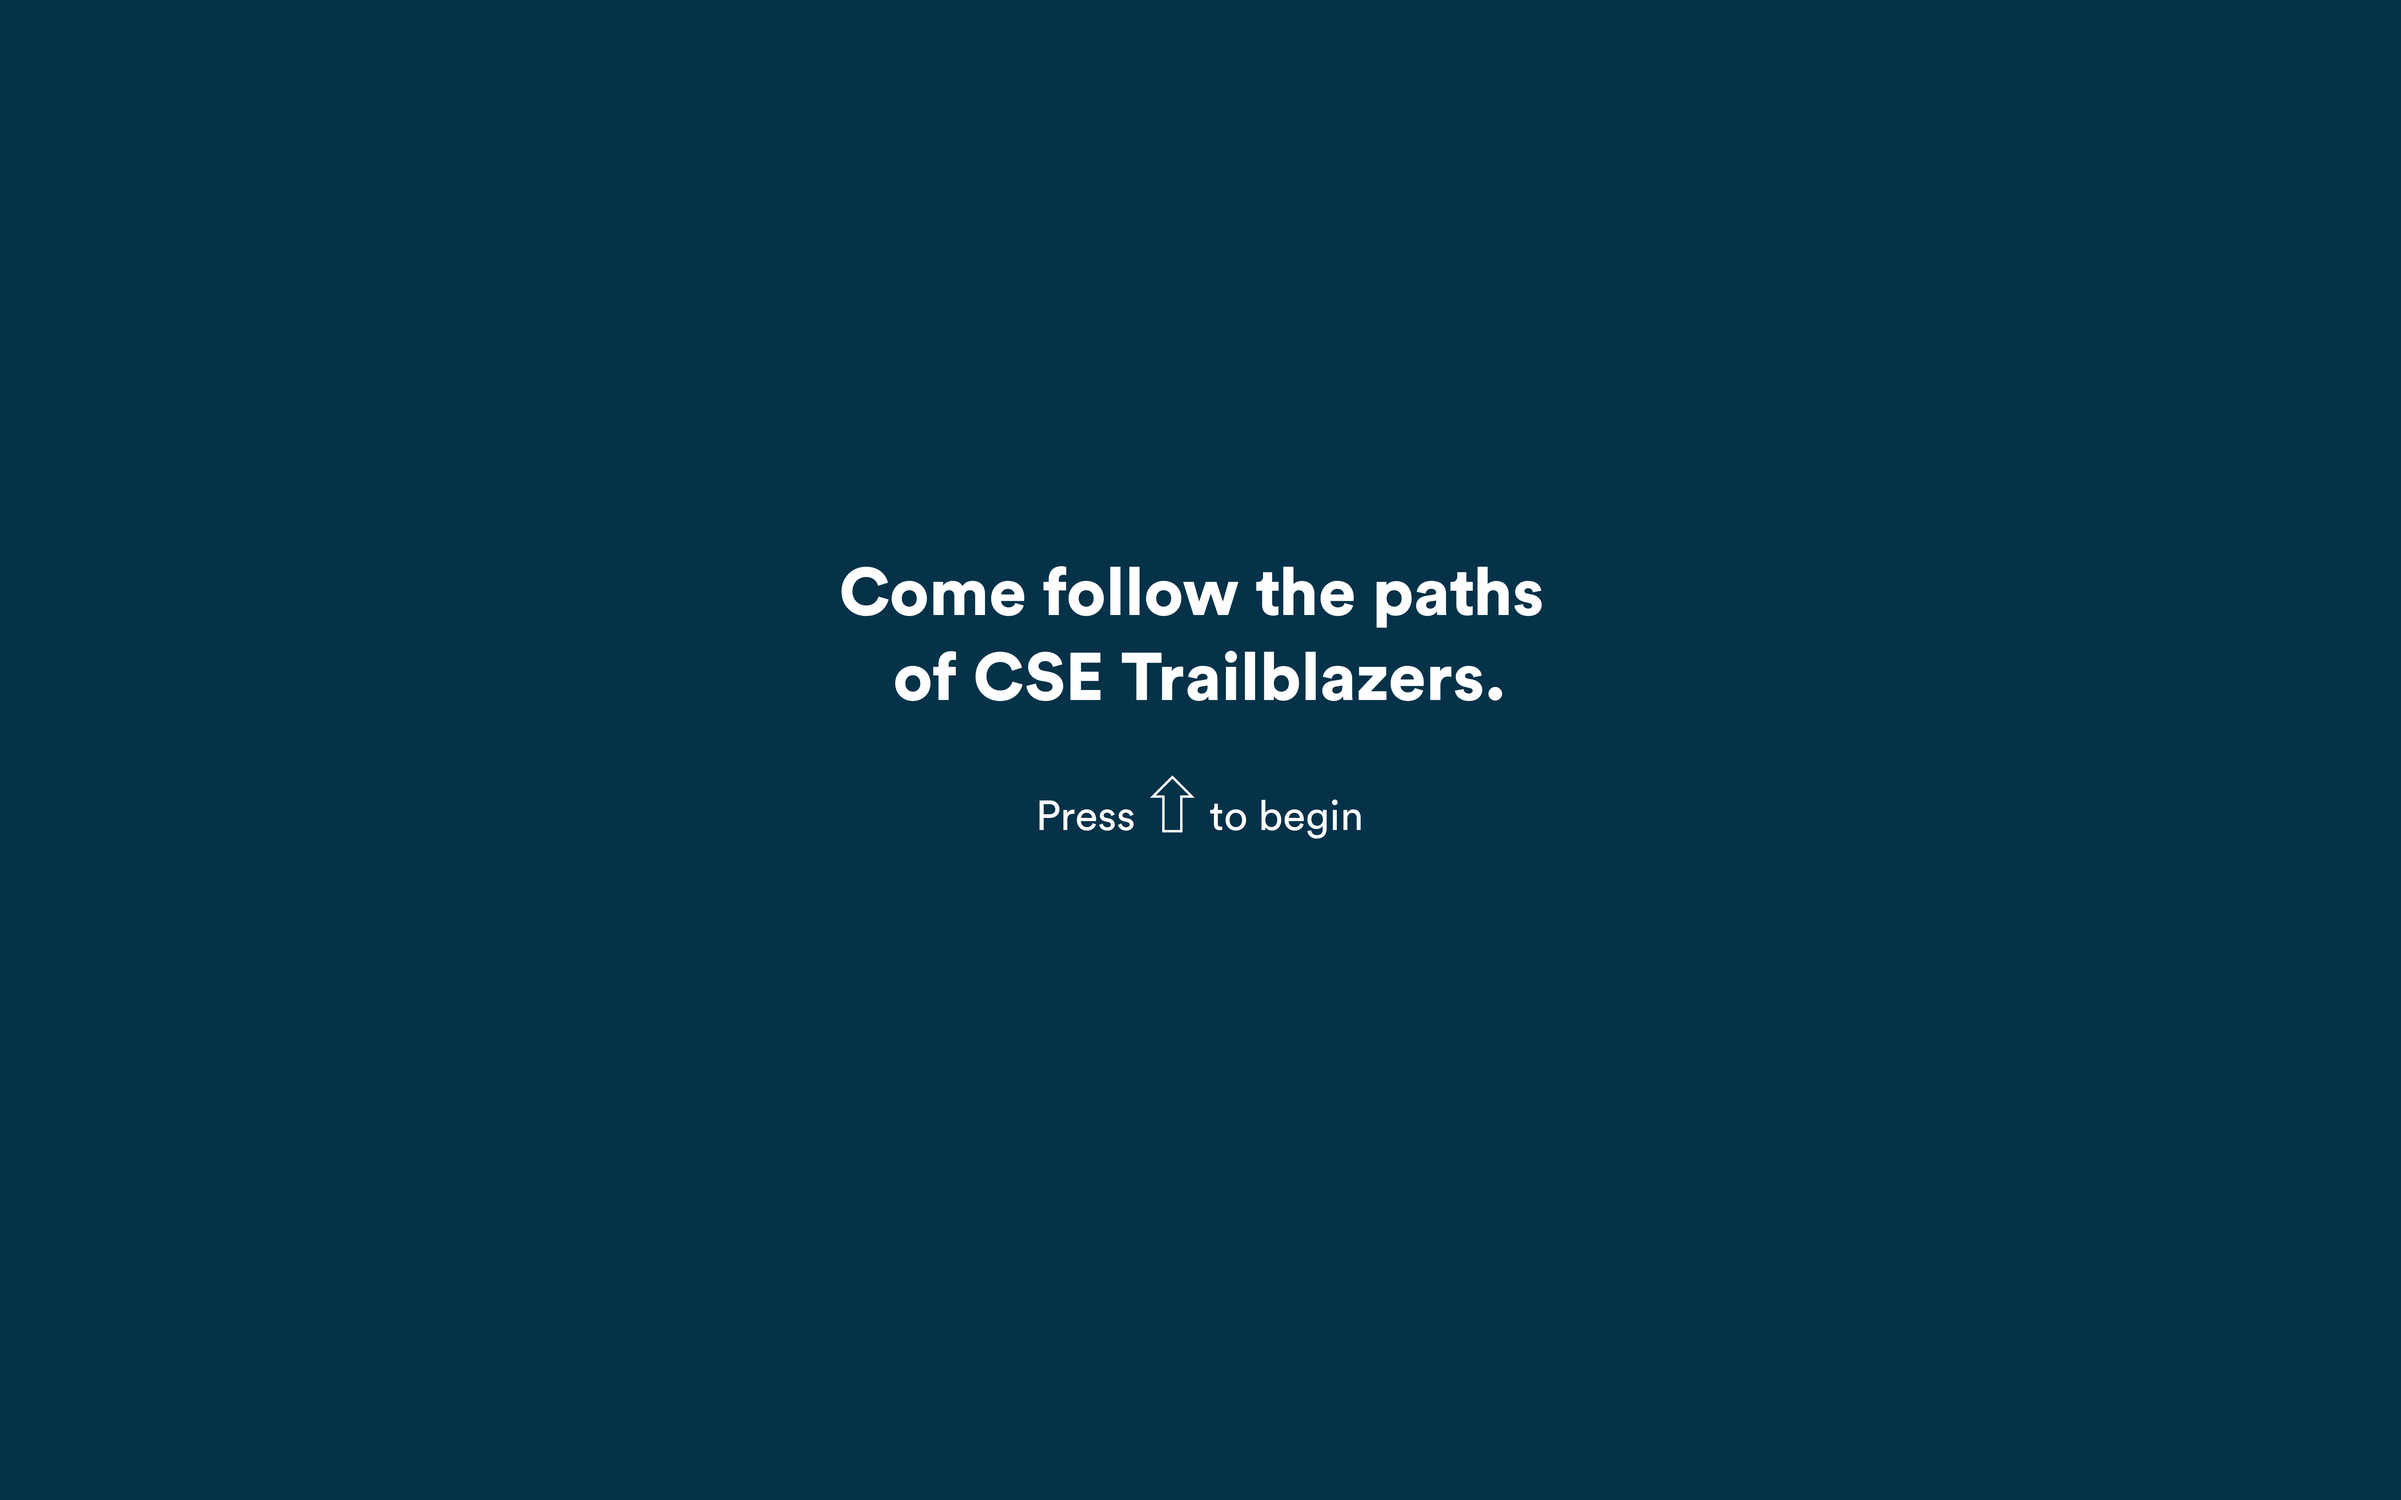
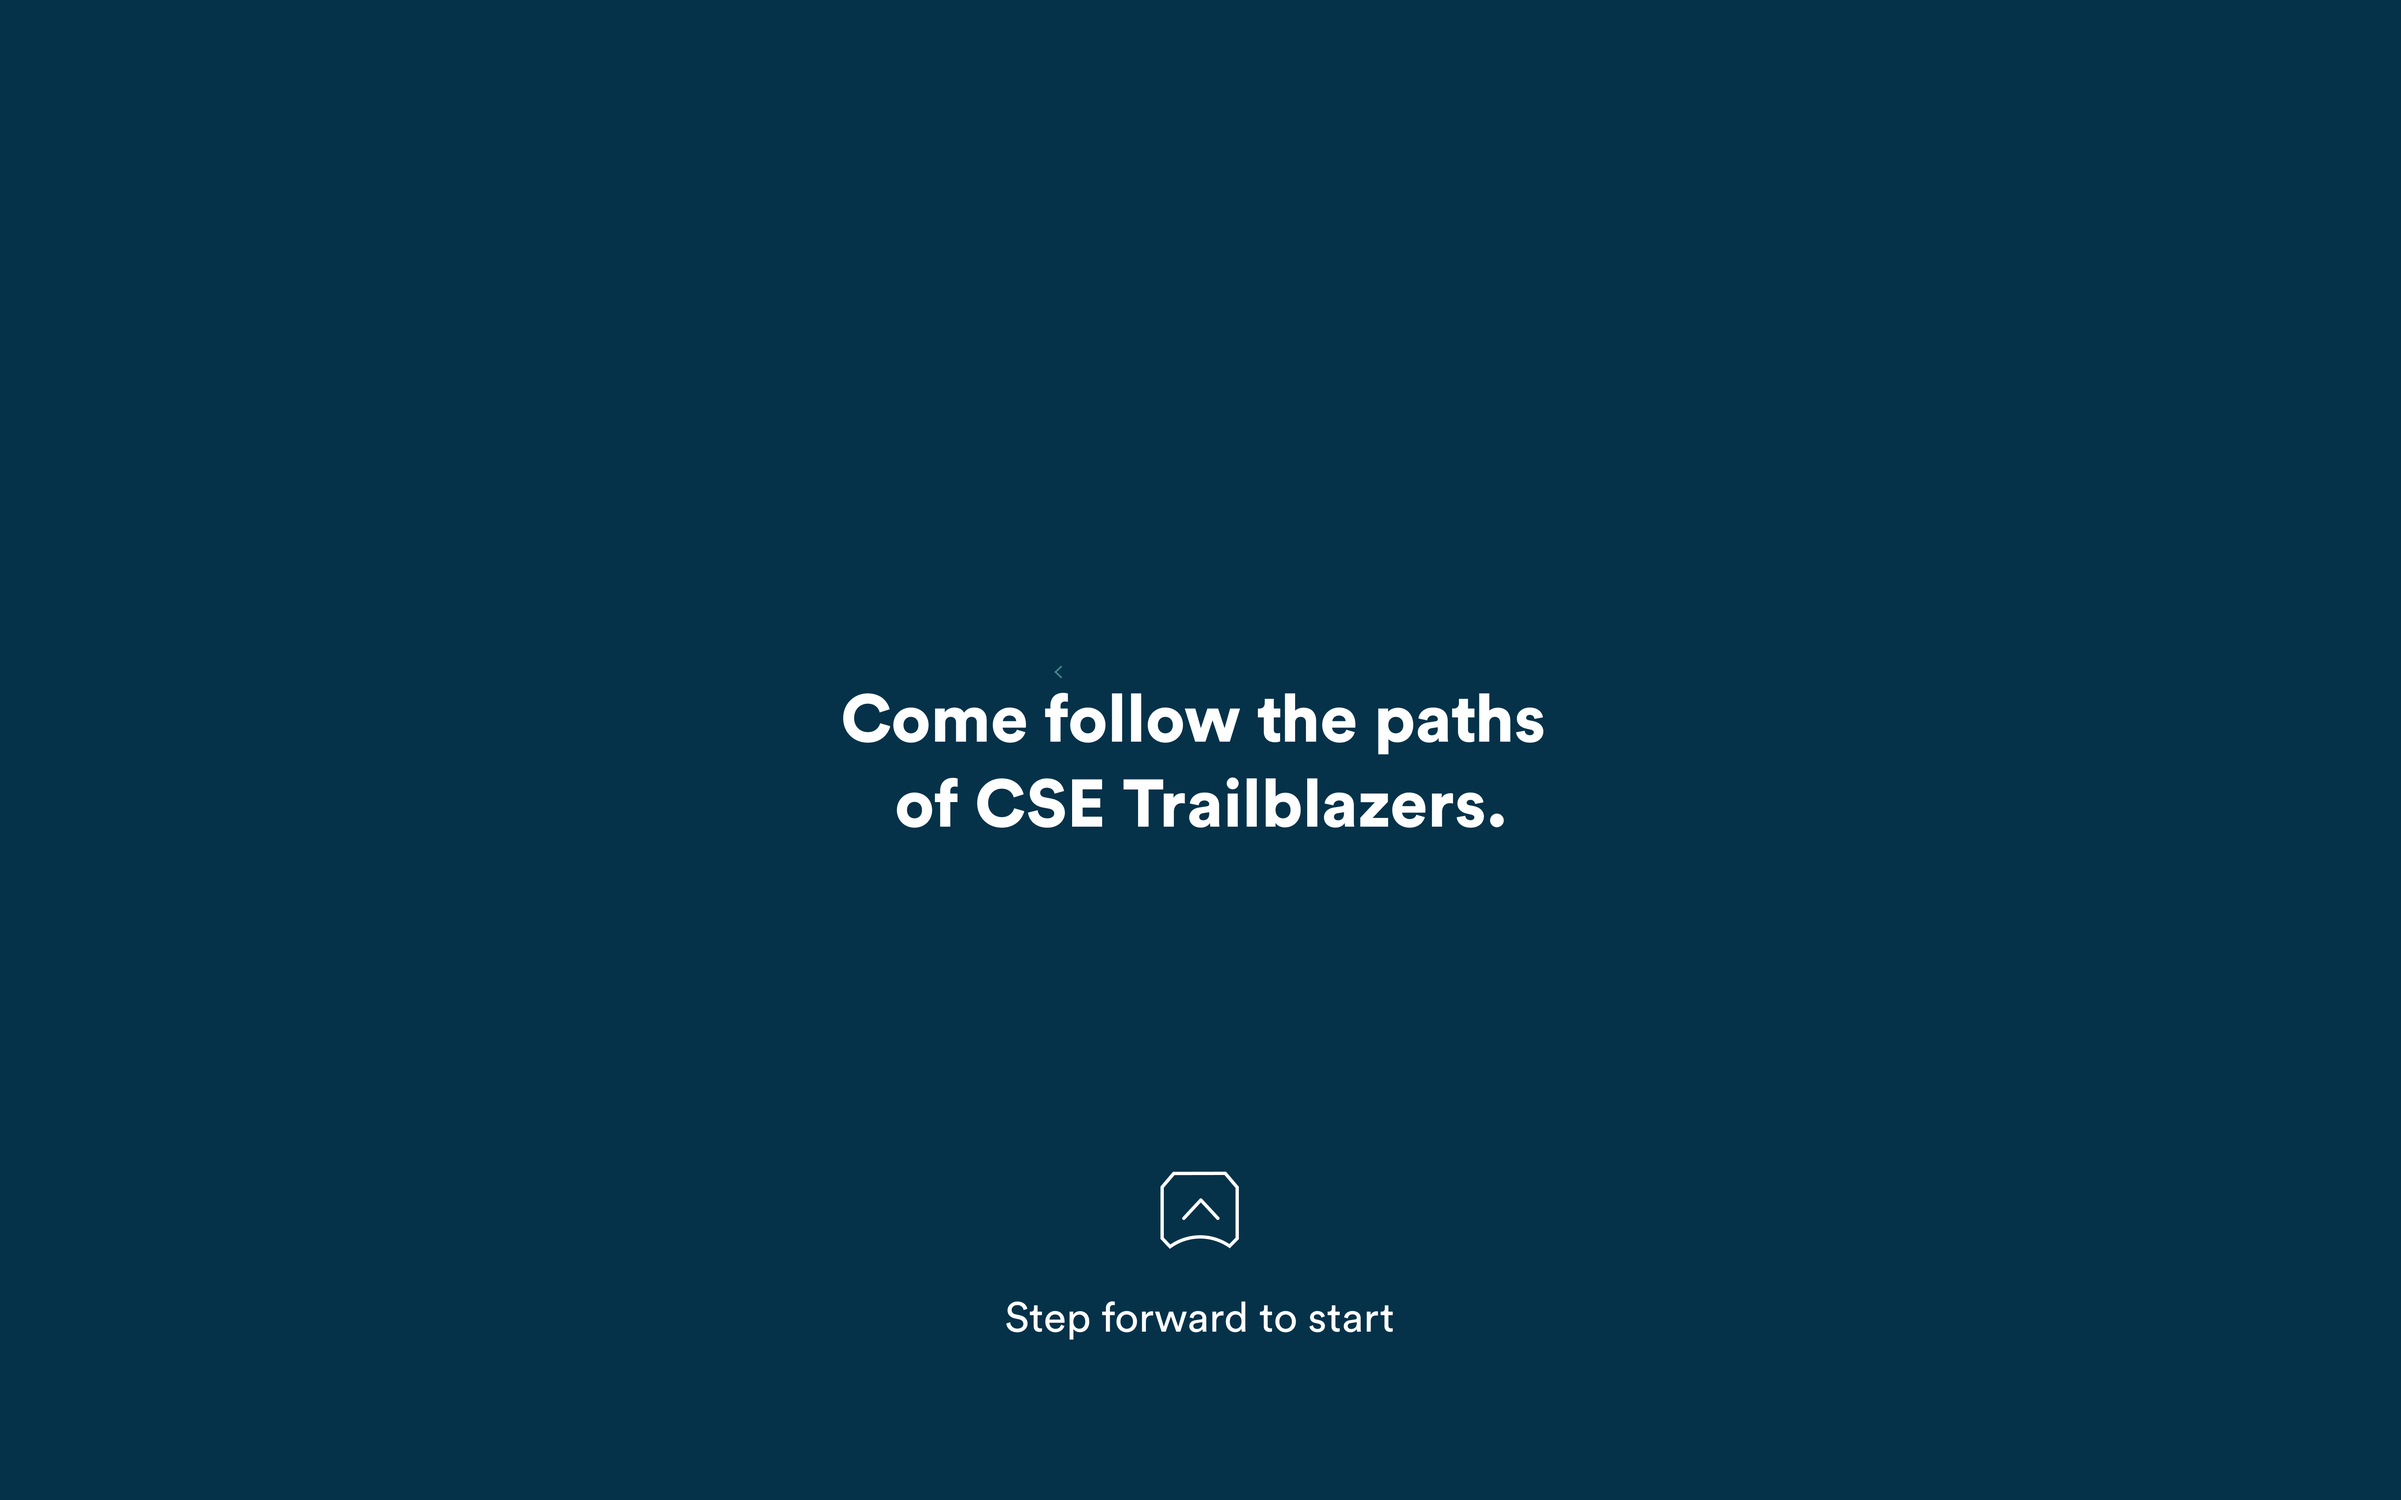
positioning changes

Changed region(s): [[0.3438, 0.3733, 0.6562, 0.56], [0.4062, 0.8711, 0.5938, 0.9022]]

diff --git a/project/v3.js b/project/v3.js
@@ -1,6 +1,6 @@
 // All custom jQuery will go here
 $(document).ready(function() {
-    const up_distance = 1323;
+    const up_distance = 1223;
     const left_distance = 2132;
     const left_distance_2 = 1345;
     const left_distance_3 = 545;
@@ -446,7 +446,7 @@ $(document).ready(function() {
         console.log("stage 2r");
         clear();
         //$('audio#test')[0].play()
-        map_left = map_left - left_distance - 20;
+        map_left = map_left - left_distance - 12;
         map.animate({left: map_left, top: map_top}, 1500, function() {
             //$('audio#test')[0].play()
             map_top = map_top + up_distance;

diff --git a/project/styles.css b/project/styles.css
@@ -88,7 +88,7 @@ body {
     position: absolute;
     bottom: 0;
     /* width of map is 10380 */
-    left: -4363px;
+    left: -4364px;
     /* background-image: linear-gradient(red, yellow); */
 }
 
@@ -112,7 +112,7 @@ body {
 }
 
 .option {
-    top: 177px;
+    top: 320px;
     left: 400px;
     transform: scale(1.5);
 }
